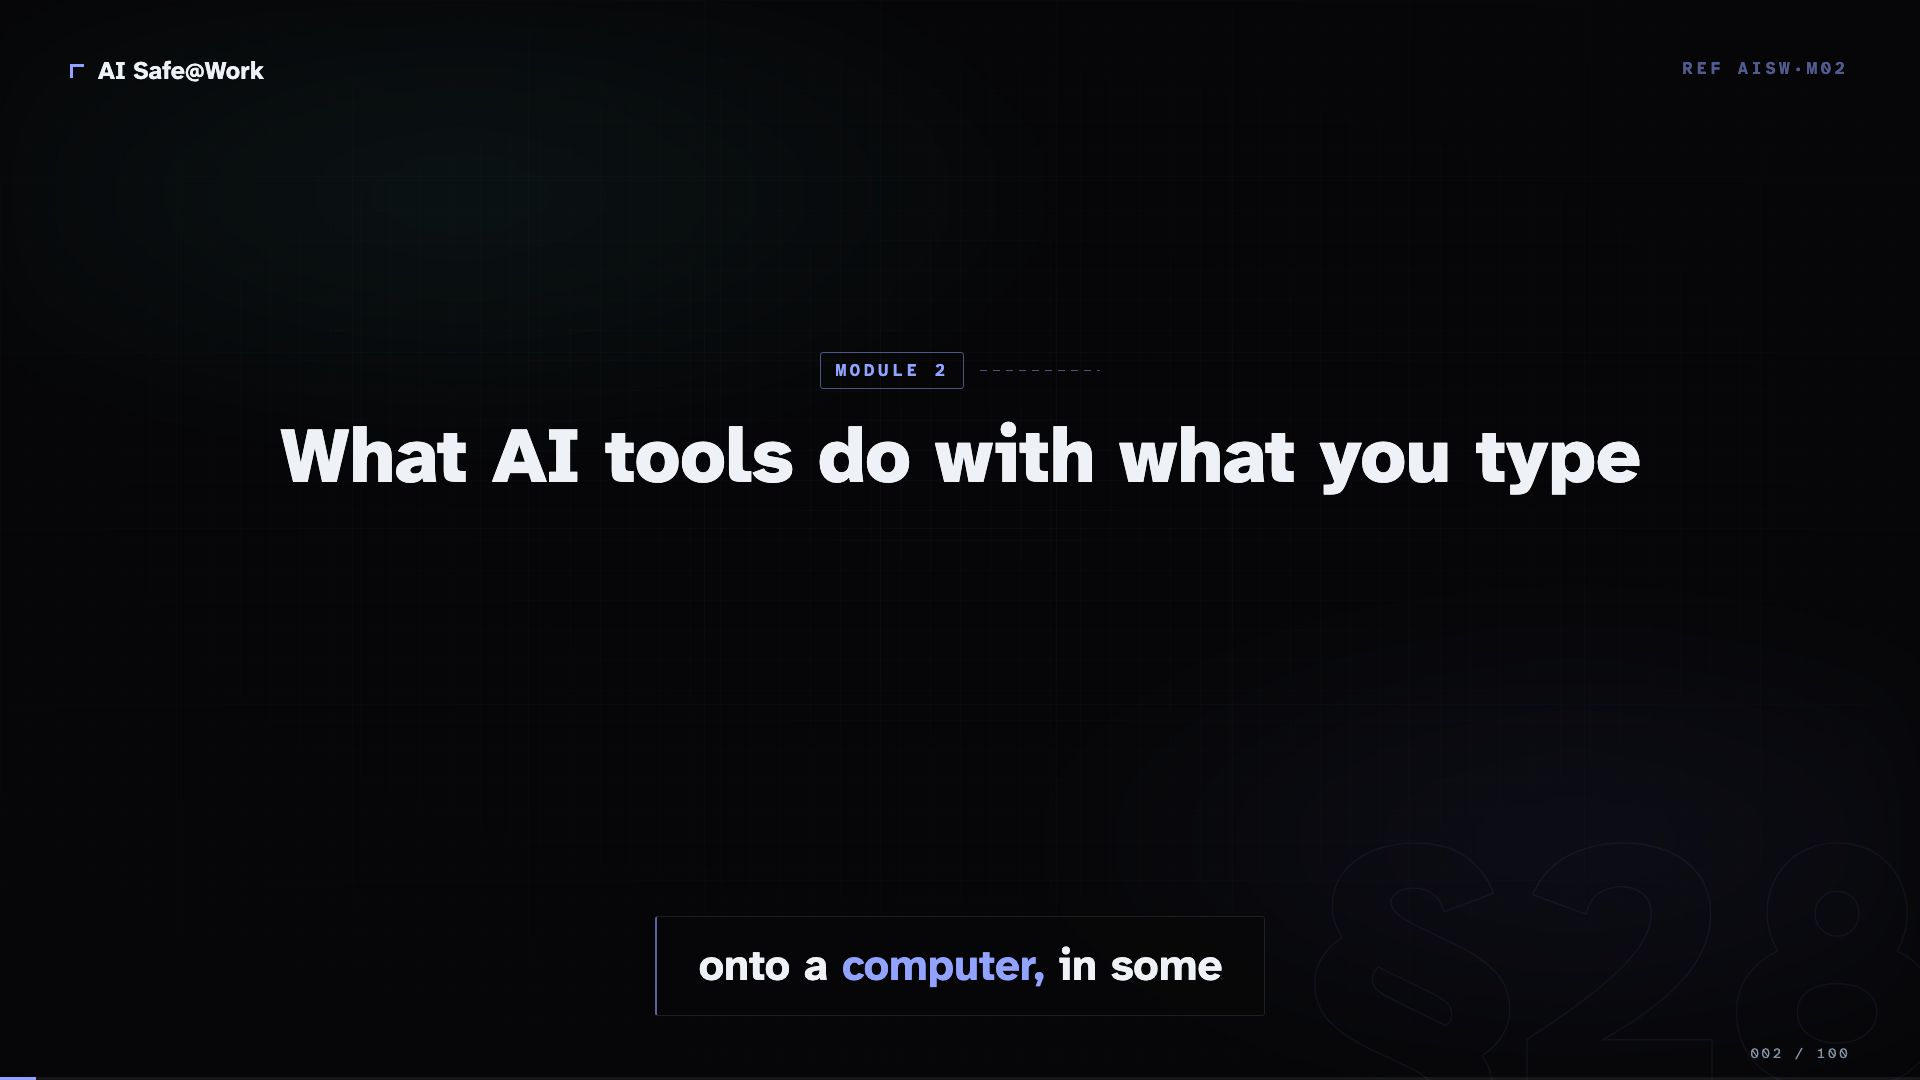
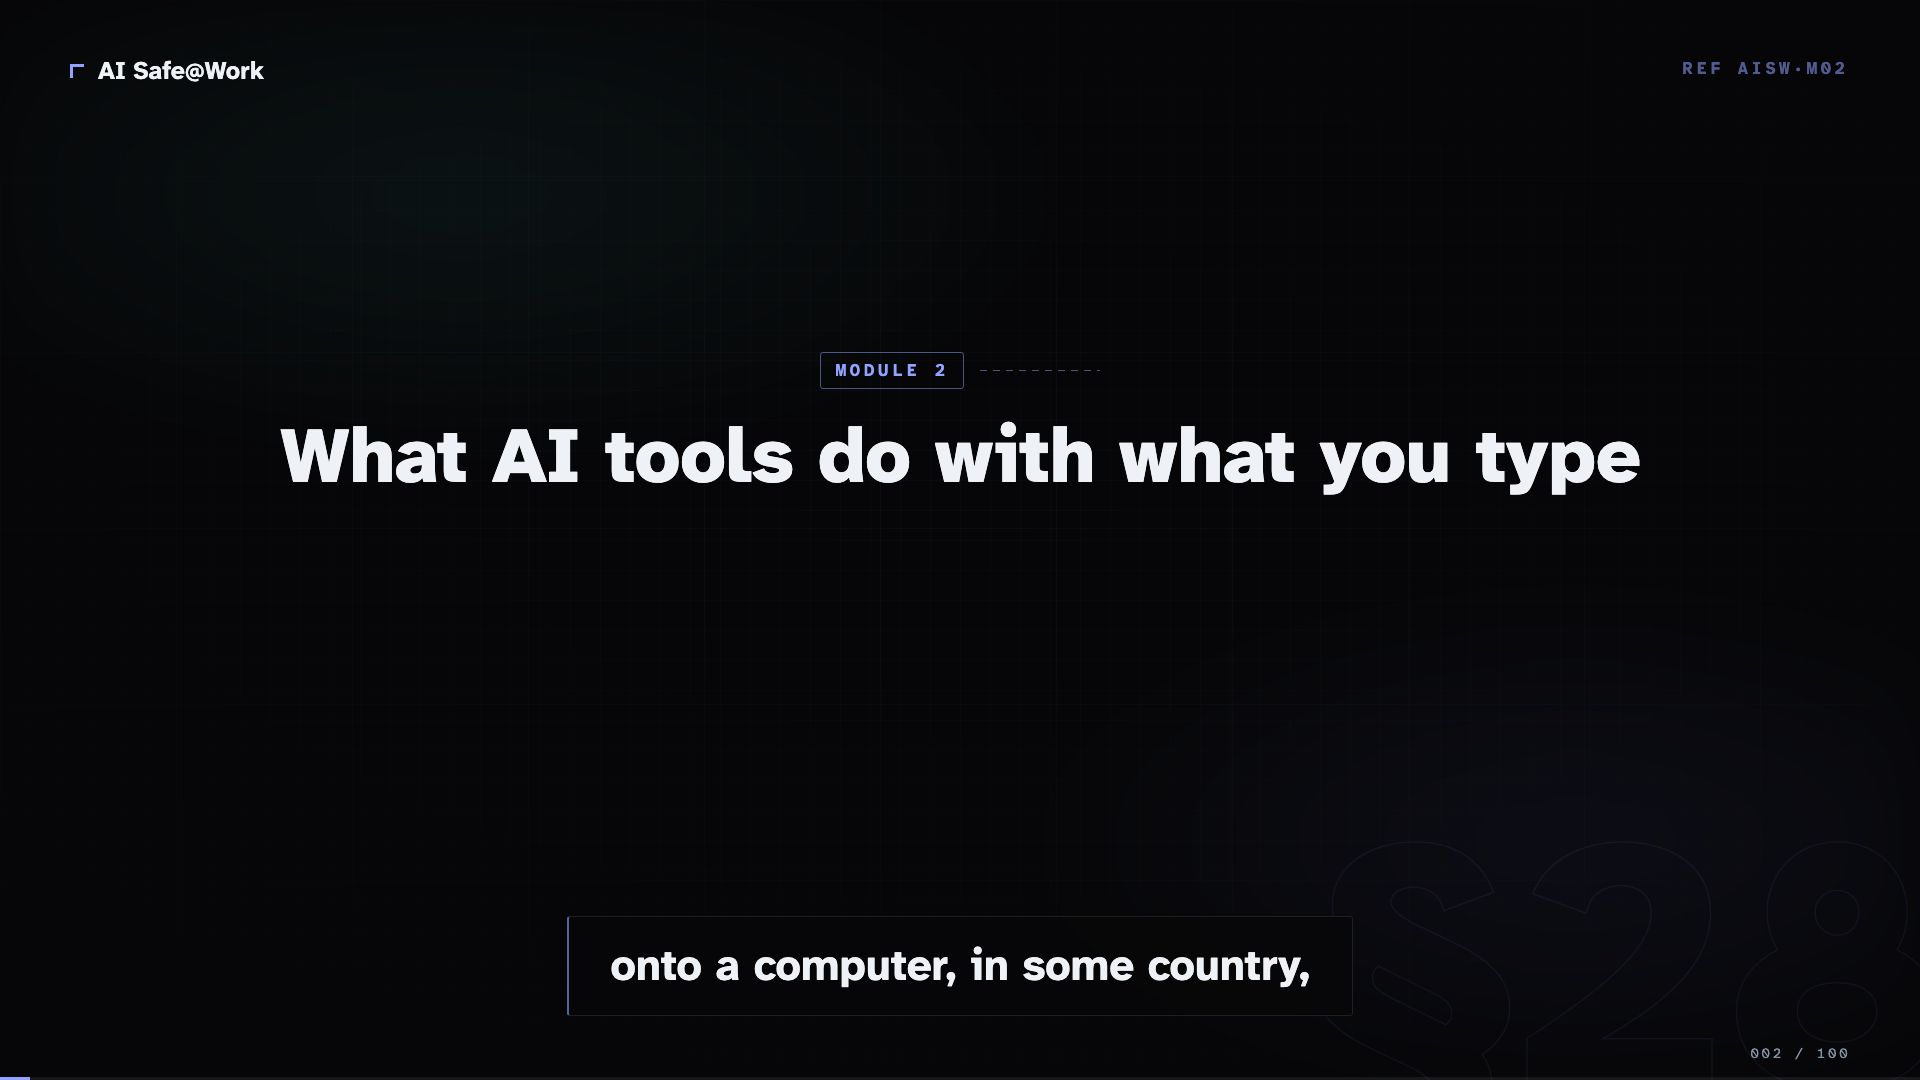
M2 video: spoken four-versions intro + breathing-room transitions
Founder feedback on the M2 explainer:
- New spoken scene 02b-versions-intro ("Now, the four versions of an
  AI tool — from weakest to safest…") with its own ElevenLabs clip
  (voice lUTamkMw7gOzZbFIwmq4) + word-timed captions — fixes the abrupt
  ~0:52 jump and gives the versions segment a proper intro.
- Per-scene tail map in Root.tsx: ~1.1s holds after the five-question
  test (before versions), after team/enterprise (before "Trained on"),
  and after the postcard (before the takeaway). Other cuts unchanged.
- Re-rendered (4:14, 1080p30), new poster, embed bumped to ?v=2.

Changed region(s): [[0.3125, 0.8861, 0.6875, 0.9167]]

diff --git a/video-m2/src/Root.tsx b/video-m2/src/Root.tsx
@@ -6,7 +6,16 @@ import { SCENES, FPS } from "./script";
 import { getAudioDuration } from "./get-audio-duration";
 import { AUDIO_EXT } from "./theme";
 
-const TAIL = Math.round(0.5 * FPS); // breathing room after each scene's narration
+const TAIL = Math.round(0.5 * FPS); // default breathing room after each scene's narration
+
+// Longer holds at specific transitions (founder feedback): a beat before the
+// versions segment, before "Trained on", and before the postcard/takeaway turn.
+const LONG_TAIL = Math.round(1.1 * FPS);
+const EXTRA_TAIL: Record<string, number> = {
+  "02-five-questions": LONG_TAIL, // pause before the four-versions intro (~0:52)
+  "05-team-enterprise": LONG_TAIL, // pause before "Trained on" (~2:32)
+  "07-postcard": LONG_TAIL, // pause before the takeaway (~3:10)
+};
 
 export const RemotionRoot: React.FC = () => {
   return (
@@ -22,7 +31,9 @@ export const RemotionRoot: React.FC = () => {
         const durations = await Promise.all(
           SCENES.map((s) => getAudioDuration(staticFile(`voiceover/m2/${s.id}.${AUDIO_EXT}`))),
         );
-        const sceneDurations = durations.map((d) => Math.ceil(d * FPS) + TAIL);
+        const sceneDurations = durations.map(
+          (d, i) => Math.ceil(d * FPS) + (EXTRA_TAIL[SCENES[i].id] ?? TAIL),
+        );
         return {
           durationInFrames: sceneDurations.reduce((a, b) => a + b, 0),
           props: { sceneDurations },

diff --git a/video-m2/src/script.ts b/video-m2/src/script.ts
@@ -38,6 +38,13 @@ export const SCENES: Scene[] = [
       "Before you paste anything more private than a recipe into an A.I. tool, ask five things. One: what type of data am I about to paste? Public, internal, confidential, personal, or special category? If you are not sure, treat it as the most sensitive kind. Two: where is my data kept? Three: how long is it kept? Four: is it used to train the next A.I.? And five: who at the company can read it? Every big A.I. company puts the answers online. They change, so check them twice a year.",
   },
   {
+    id: "02b-versions-intro",
+    kicker: "The four versions",
+    title: "The four versions — weakest to safest",
+    text:
+      "Now, the four versions of an A.I. tool — from weakest to safest. The version you use matters as much as what you type.",
+  },
+  {
     id: "03-free-version",
     kicker: "Version one of four",
     title: "The free version",

diff --git a/module-2.html b/module-2.html
@@ -126,8 +126,8 @@
   </figure>
 
   <figure class="module-video">
-    <video class="module-video-el" controls preload="metadata" poster="assets/video/module-2-poster.jpg?v=1" playsinline>
-      <source src="assets/video/module-2.mp4?v=1" type="video/mp4" />
+    <video class="module-video-el" controls preload="metadata" poster="assets/video/module-2-poster.jpg?v=2" playsinline>
+      <source src="assets/video/module-2.mp4?v=2" type="video/mp4" />
       Your browser can't play this video. <a href="assets/video/module-2.mp4">Download it instead</a>.
     </video>
     <figcaption class="module-video-cap">Watch: the whole of Module 2 as a short narrated explainer.</figcaption>